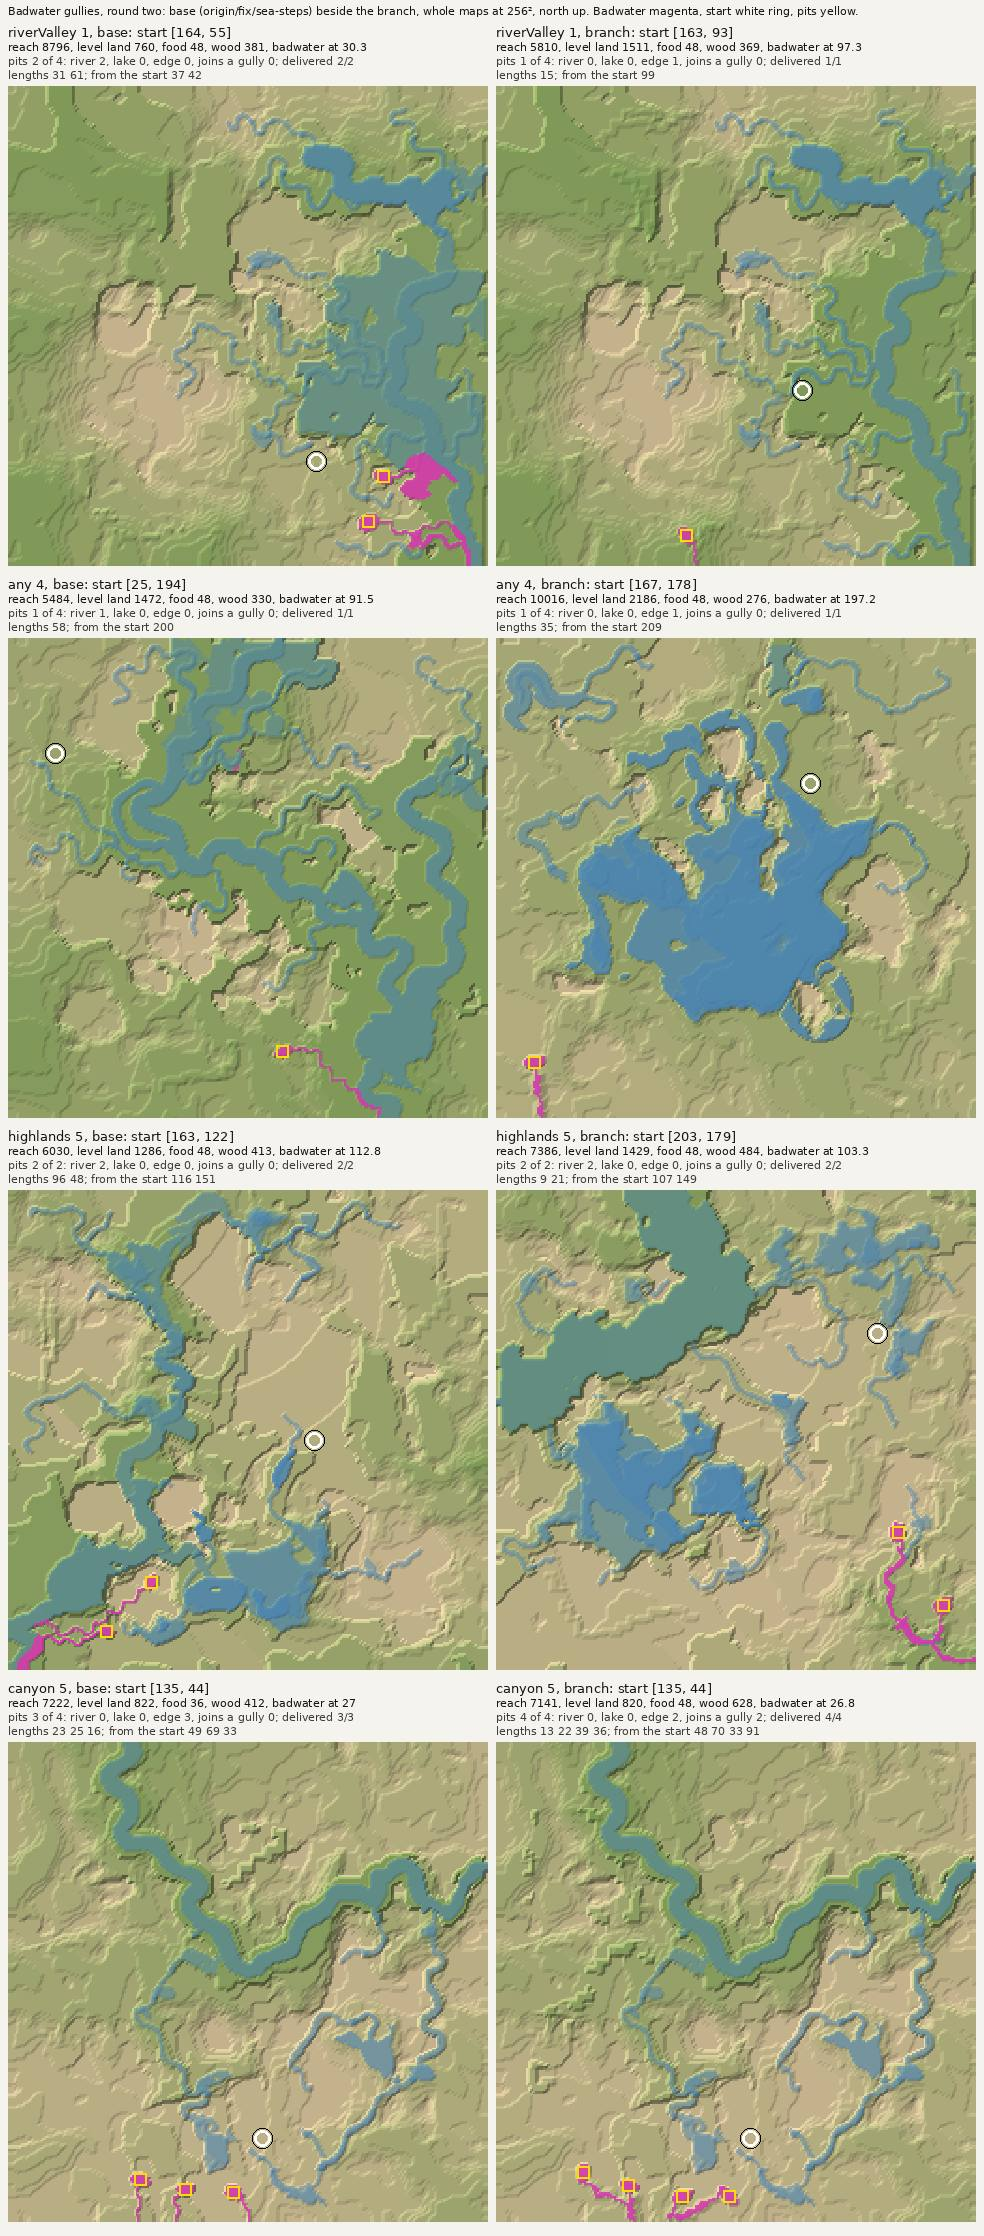
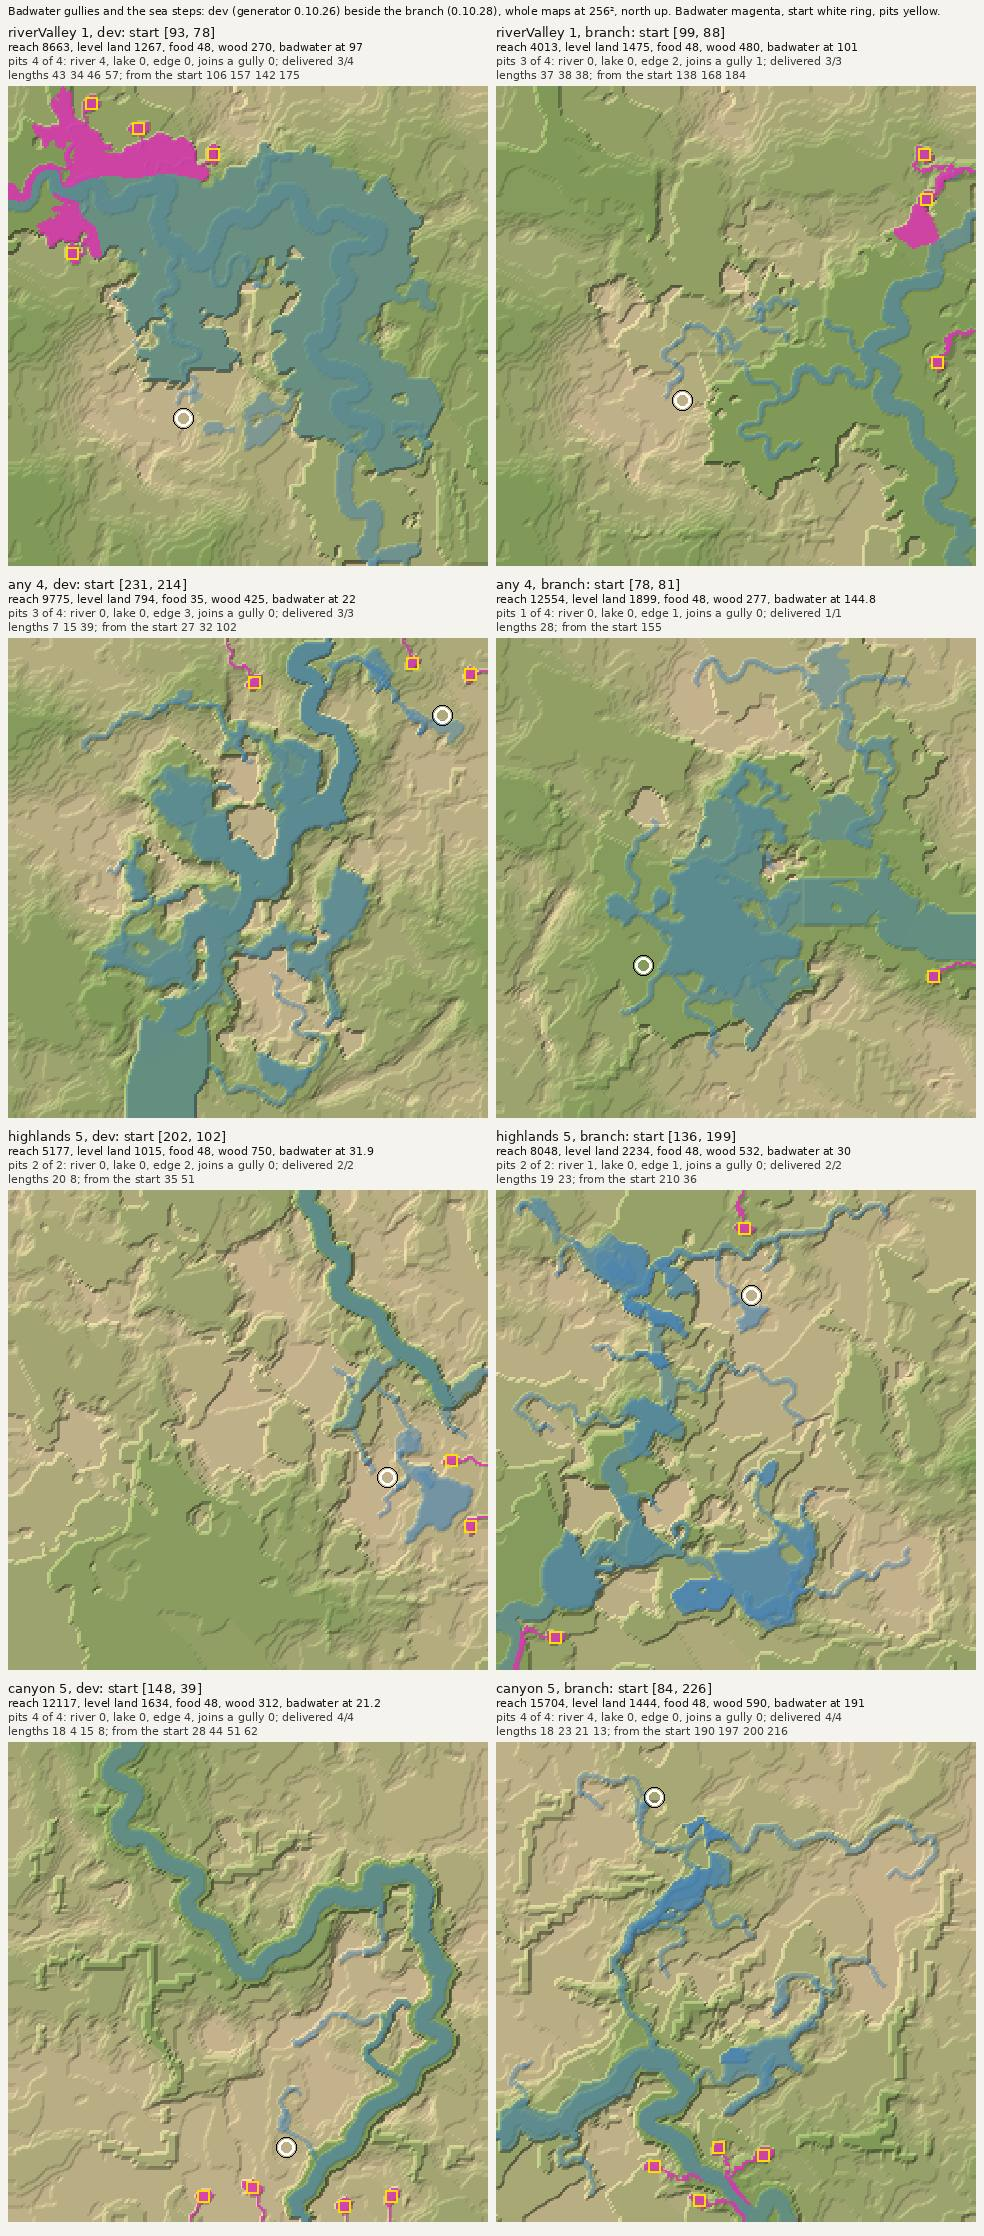
D(new-ditch): the edge ends last, the numbers on generator 0.10.28; sheet dev beside the branch
Claude-Session: https://claude.ai/code/session_019E9kh5fyLEE1WCHksi7jtk

diff --git a/docs/decisions/generator.md b/docs/decisions/generator.md
@@ -1,6 +1,6 @@
 ### The generator
 
-- **D(new-ditch)** (planning's ruling of 2026-11-14/15 on the badwater ditch; amends D209's ditch wave and #330's routing; with D476, D498, D469, D302 and D85): **The ditch takes a gully's shape.** "A brook's width, wandering down the fall line to where D476 sends it; it follows the fall, wanders, narrows and widens, never a straight stepped slot or ruled trench." At 256² ditches run 40–250 tiles and the rivers' meander on them (`windDitch`) could not keep them under 9 tiles straight, so most pits were turned down ("no place for badwater"); the bends it did lay came out as square waves. Now (`land/hazards.ts` `gullyDitch`): (1) the fall line is the route as traced before (the field's own way down from the pit's rim, else the least cut along the lowest ground), smoothed over 9 tiles and swung either side by a wander (up to 2.6 tiles, a wavelength drawn per ditch, never up a valley's side more than a level); (2) the ditch is walked tile by tile toward that line, side to side, never over 4 tiles along a row or column (`DITCH_RUN`), in an even 45° stair of 6 (`DITCH_STAIR`), over 9 straight at any angle (`DITCH_STRAIGHT`) or in a regular wave, one tile wide with no loop, at least 8 tiles long (`DITCH_LONG`); (3) its bed widens to 2 or 3 tiles where a noise along it says, about half its length (the plan's `outletSide`, carved by `features/route.ts` `channelTiles` at the level of the lowest route tile beside it, with banks round it; never on its first 3 tiles, by the pit or on water); (4) its banks step down to the bed a level a tile up to 3 tiles out (`stepBanks`), the tiles beside it a level over it, never ground it keeps off, the pit's ring or the ground by water. (5) a pit keeps two tiles clear of another pit's gully and the banks stepped to it (Any 256² seed 2: a gully run past a pit let its water in). **A gully is a tributary** (planning's rulings of 2026-11-15, round two, replacing round one's held bed and its long gullies to the main river's lower reach, which backed the river up 60–80 tiles on 4 of 109 ditches and ran three and four abreast round River Valley 256² seed 1's bend): (6) it ends in the nearest water its own fall line reaches, where that water's way out never passes the start's protected reach (D476's and D498's own test, asked of the water joined); a fall line that runs first into water it may not join is no site; (7) gullies join, never run abreast: a later gully may end in an earlier one's bed (its `outletTo` "ditch"; its banks raise no ground another piece carved, `features/route.ts` `carveChannel`), which goes on a tile wider below the join, and none stays within 6 tiles of a river, a stream or another gully for 20 tiles or more but its last 6 before it joins (`abreastRun`); (8) its bed stays a level over the planned surface of the water it joins (over the bed it joins, a level over it) until its last 6 tiles, and ground too low for that is no site; (9) it is at most `DITCH_CAP` tiles long, 40 (on the 42 maps at 256², seeds 1–6, of no cap, 40, 60 and 80, 40 left the fewest maps short of pits, 10 of 36, and no place on 2; with no cap 15 gullies ran over 80 tiles, the longest 248, and their banks held 826 tiles of badwater); (10) the sites are found from the water outward, the places whose own fall line reaches such water, a gully drawn or the map's edge within the cap, and the pits are drawn from them; a pit another's water reaches in the pre-fill is kept off alone when the pits are planned again, not every pit (`gen/generate.ts`). On those 42 maps against the base: "no place for badwater" outside Islands 16 to 2; maps with fewer pits than asked 22 to 10 of 36; pits 92 to 117, 15 of them joining another gully; every ditch delivers its badwater in the settle (117 of 117) and none backs up; badwater on the banks at high water 265 tiles to 295; leak refusals 4 and 4; Islands byte-identical. Only ground is cut. Where it ends, how far from the start, its clean water, the sea and the pit's floor and outlet are as D476, D498 and D85 have them; `water.badwater_contained` reads the route's bed alone as the levee, as the Rust checks do. Islands' pits and ditches are as they were (`windDitch`, the rivers' meander; its ruling, an island's pit with no ditch, is to come, D498 (3)). Cloud builder for planning, 2026-11-15.
+- **D(new-ditch)** (planning's ruling of 2026-11-14/15 on the badwater ditch; amends D209's ditch wave and #330's routing; with D476, D498, D469, D302 and D85): **The ditch takes a gully's shape.** "A brook's width, wandering down the fall line to where D476 sends it; it follows the fall, wanders, narrows and widens, never a straight stepped slot or ruled trench." At 256² ditches run 40–250 tiles and the rivers' meander on them (`windDitch`) could not keep them under 9 tiles straight, so most pits were turned down ("no place for badwater"); the bends it did lay came out as square waves. Now (`land/hazards.ts` `gullyDitch`): (1) the fall line is the route as traced before (the field's own way down from the pit's rim, else the least cut along the lowest ground), smoothed over 9 tiles and swung either side by a wander (up to 2.6 tiles, a wavelength drawn per ditch, never up a valley's side more than a level); (2) the ditch is walked tile by tile toward that line, side to side, never over 4 tiles along a row or column (`DITCH_RUN`), in an even 45° stair of 6 (`DITCH_STAIR`), over 9 straight at any angle (`DITCH_STRAIGHT`) or in a regular wave, one tile wide with no loop, at least 8 tiles long (`DITCH_LONG`); (3) its bed widens to 2 or 3 tiles where a noise along it says, about half its length (the plan's `outletSide`, carved by `features/route.ts` `channelTiles` at the level of the lowest route tile beside it, with banks round it; never on its first 3 tiles, by the pit or on water); (4) its banks step down to the bed a level a tile up to 3 tiles out (`stepBanks`), the tiles beside it a level over it, never ground it keeps off, the pit's ring or the ground by water. (5) a pit keeps two tiles clear of another pit's gully and the banks stepped to it (Any 256² seed 2: a gully run past a pit let its water in). **A gully is a tributary** (planning's rulings of 2026-11-15, round two, replacing round one's held bed and its long gullies to the main river's lower reach, which backed the river up 60–80 tiles on 4 of 109 ditches and ran three and four abreast round River Valley 256² seed 1's bend): (6) it ends in the nearest water its own fall line reaches, where that water's way out never passes the start's protected reach (D476's and D498's own test, asked of the water joined); a fall line that runs first into water it may not join is no site; (7) gullies join, never run abreast: a later gully may end in an earlier one's bed (its `outletTo` "ditch"; its banks raise no ground another piece carved, `features/route.ts` `carveChannel`), which goes on a tile wider below the join, and none stays within 6 tiles of a river, a stream or another gully for 20 tiles or more but its last 6 before it joins (`abreastRun`); (8) its bed stays a level over the planned surface of the water it joins (over the bed it joins, a level over it) until its last 6 tiles, and ground too low for that is no site; (9) it is at most `DITCH_CAP` tiles long, 40 (on the 42 maps at 256², seeds 1–6, of no cap, 40, 60 and 80, 40 left the fewest maps short of pits, 10 of 36, and no place on 2; with no cap 15 gullies ran over 80 tiles, the longest 248, and their banks held 826 tiles of badwater); (10) the sites are found from the water outward, the places whose own fall line reaches such water, a gully drawn or the map's edge within the cap, and the pits are drawn from them; a pit another's water reaches in the pre-fill is kept off alone when the pits are planned again, not every pit (`gen/generate.ts`); (11) the edge is the last resort (planning's ruling of 2026-11-15: badwater that leaves the map at once is no hazard, the player never meets it): the sites are tried by where their fall line ends, a river or lake below the start's reach first, an earlier gully's bed next, the edge only where a pit has no other (`planBadwater` `falls`). On the 42 maps at 256², seeds 1–6, generator 0.10.28 against #1145's 0.10.27 (dev 0.10.26 beside): attempts 209 (dev) / 200 / 132, no map above dev's by more than Any 4's 13 to 12; "no place for badwater" outside Islands 28 to 2; maps with fewer pits than asked 25 to 11 of 36; pits 79 to 115, 10 of them joining another gully; ends outside Islands river 29 to 38, lake 4 to 7, join 0 to 10, edge 35 to 49, and maps where every pit ends at the edge 17 to 11 (most fall lines meet water D476 and D498 keep a gully off, or run past the cap, before any it may join); every gully 40 tiles or less; badwater on the banks at high water 285 tiles to 244; leak refusals 10 to 3; Islands byte-identical. Only ground is cut. Where it ends, how far from the start, its clean water, the sea and the pit's floor and outlet are as D476, D498 and D85 have them; `water.badwater_contained` reads the route's bed alone as the levee, as the Rust checks do. Islands' pits and ditches are as they were (`windDitch`, the rivers' meander; its ruling, an island's pit with no ditch, is to come, D498 (3)). Cloud builder for planning, 2026-11-15.
 - **D(sea-steps)** (planning's ruling of 2026-11-14, after D(new-leaks)): **The sea steps keep the sea below a course's last edge.** (1) An inflow's own edge is not lowered by the second edge relax or the basins' outlets below a level over the highest water standing on its course as planned (`land/courses.ts` `inflowEdges`, joined to `besideCourses`'s floor): lowered, a sea the course ends in drained toward the mouth and left beside it. Only the edge's two outer rows, never the mouth's own tiles; nothing is raised. (2) Round a sea, the shelves that rise a level (D410) leave a planned course's channel, as wide as the course, at its level (`gen/generate.ts` `raiseSeaShelves`): risen, the shelf dammed the course where it crossed a planned lake (Any 4), and its water left by another edge. At 256², every theme, seeds 1–6, against D(new-leaks): "a river's water leaves its course" 10 → 4 refusals (Any 4 and 5, River Valley 1), attempts 176 → 169; the four left are Highlands' three and Canyon 5's, a planned lake's outlet above a lower way out, opened by the plan itself.
 - **D(new-leaks)** (planning's rulings of 2026-11-14 on the land's leaks, from investigation attempts-256; with D111, D447 and D357): **A course's water leaves only by its own way.** (1) A pool scoured under a river's bed below a drop is cut only inside banks that hold it: every tile beside it but its outflow stands at its water or higher (`land/hydro.ts` `poolHolds`); never a raised lip: where the banks don't hold, the bed stays as it is. A later cut below a bed (a plunge pool at a fall's foot, a gorge head) asks the same question. (2) An inflow's pool is refused where its water stands at or above the level its own edge lets water out at beside its mouth (`edgeBackFill`). (3) Nothing beside a planned course is lowered under that course's water: the edge relax and the basins' outlets keep to it (`land/courses.ts` `besideCourses`). (4) On a Delta, a course its fan's arm crosses joins the main river there by plan, its course below one more of the fan's mouths, or is not laid; no bank is raised to keep them apart. (5) A channel is never left lower than its own reach downstream: the reach below is cut down to it, on into the river it joins; a planned lake or a held pool starts the reach afresh. At 256², every theme, seeds 1–6: "a river's water leaves its course" 40 → 10 refusals, attempts 209 → 200 (generator 0.10.27, against 0.10.24).
 - **D527** (with D342, D351; planning's ruling on #236, comment 6885542995, after Kyler asked whether every setting changes the map): **Every move of a generator control changes the next map, or the control is greyed with a one-line reason**, as a lake stair's unused settings already are. A control whose value the generator already beats is not a setting but a readout. A heavy nightly test holds it: for every control and theme, over seeds 1–2 at 96², the control's smallest move and its largest each change the world (land, water, objects) on at least one seed, unless the panel greys the control there; the test has no list of known exceptions. A limit that a map already meets (Max walk to water) is a limit working, not a dead control. **Badwater distance** (item 2 of the ruling): the generator keeps no floor above the slider's 8. Its start rule (`start.rules.badwaterWithin`, link `sx`) was a second copy of it, and the hollows were placed by the larger of the two, so the audit's move of `hazards.badwaterDistance` alone to 8 changed nothing on 12 of 12 maps while the panel's move of both changed the map on at least one seed of every theme, from 8 to 9 as from 59 to 60 (96², seeds 1–2; one-tile steps from 8 change River Valley seed 1 at 128² and 256² too, where at 96² its badwater stands beyond 15 anyway). The two fold into one, Badwater distance (`hazards.badwaterDistance`, `bd`): a link or project file from before it that gives the start rule opens with the larger as Badwater distance, the map it already made; the slider keeps 8–60 and Hard its 8.
